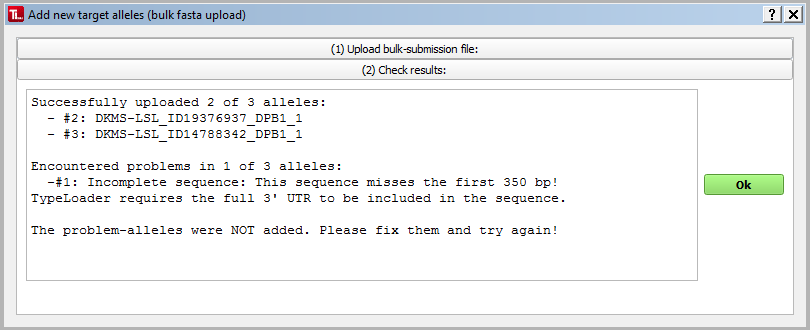
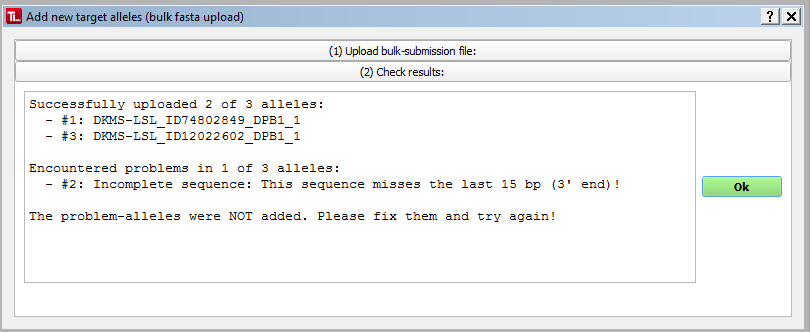
updated user manual for V 2.3.1

Changed region(s): [[0.0, 0.0, 1.0, 1.0]]

diff --git a/user_manual/first_start.md b/user_manual/first_start.md
@@ -1,32 +1,44 @@
 # ![Icon](images/TypeLoader_32.png) How to use TypeLoader: Getting started
-When you start TypeLoader for the first time after [=> Setup](setup.py), you will have to create a [=> User Account](users.md). 
 
-**We *strongly* recommend creating a [=> Test Account](users_test.md) first and using it to get familiar with all of TypeLoader's functions!**
+After installing TypeLoader ([=> Setup](setup.py)), start the program.
 
-(Unlike other user accounts, test accounts are connected to ENA's test server insted of their productive server. You don't want to screw around on their productive server! ;-))
+## Create a Test user account
+When you start TypeLoader for the first time after Setup, you will have to create a [=> User Account](users.md). 
+
+**Please create a [=> Test Account](users_test.md) first and use it to get familiar with all of TypeLoader's functions, before creating a productive account!**
+
+(Unlike other user accounts, test accounts are connected to ENA's test server insted of their productive server. You don't want to screw around on their productive server! They complain! ;-))
 
 Once you have created an account and logged into it, TypeLoader will ask whether you want to update the reference data. Since the installation does not bring any reference data along, **you must accept the reference update** for TypeLoader to work!
 Just click "Yes" and wait until another Popup appears to tell you that TypeLoader has (hopefully) successfully update its reference data (or give you an error message if a problem was encountered).
 
 After the reference data has been downloaded and processed successfully, you can get familiar with TypeLoader.
 
-If you have not registered with ENA, yet, you should do this now (follow the instructions on [ENA's 'Register Submission Account' page](https://ena-docs.readthedocs.io/en/latest/reg_01.html) and [=> configure your settings accordingly](settings.md) (tab "Company & Communications Settings"). Otherwise, TypeLoader will not be able to work.
+## Register with ENA
+If you have not registered with ENA, yet, you should do this now (follow the instructions on [ENA's 'Register Submission Account' page](https://ena-docs.readthedocs.io/en/latest/reg_01.html) and [=> configure your settings accordingly](settings.md) (tab "Company & Communications Settings"). **Otherwise, TypeLoader will not be able to work.**
 
+## Create a project
 Once you have entered communication data with ENA, you can start using TypeLoader by [=> creating a new project](new_project.md). All alleles in TypeLoader must be part of a project (since that is how ENA handles sequences), so you always need a project before you can upload any sequences.
 
+## Add alleles 
 After you have created a project, you can [=> add new alleles](new_allele.md) to it. (Once you are familiar with this method, you can also use the [=> bulk fasta upload](new_allele_bulk.md) to save even more time.)
 
+![important](images/icon_important.png) **If you wish, you can use the [=> Example files](example_files.md) provided by TypeLoader to play around in your test account.** 
+
+## Submit alleles to ENA
 When your test project contains a handful of alleles, you can submit them to ENA using the [=> ENA submission dialog](submission_ena.md). If there are no problems encountered, all your submitted alleles will now have the status ``ENA submitted``. If ENA has problems with any of your sequences, TypeLoader will show you a popup window explaining the problem, so you can fix them before trying again. 
 
-Once you are satisfied that ENA's test server accepts your sequences, create a productive [=> User Account](users.md) and log into that (and, if necessary, [=> configure its settings, too](settings.md). Create a project and add your sequences, just like you did in the test account.
+## Create a productive user account
+Once you are satisfied that ENA's test server accepts your sequences, restart TypeLoader, create a productive [=> User Account](users.md) and log into that (and, if necessary, [=> configure its settings, too](settings.md). Create a project and add your sequences, just like you did in the test account.
 
 When your project contains the alleles you want, submit them to ENA. (You do not have to submit all alleles of a project at once, and you can add more alleles to a project after you have submitted other alleles of the same project. To get started, it might be good idea to try out a handful of alleles, submit them, and await the ENA accession numbers, before uploading hundreds of alleles and only then realising a problem with the input format or methodology.)
 
-Once ENA has assigned accession numbers to your alleles, they will send you an email. After you have received that email, you can [=> create IPD submission files](submission_ipd.md). (This, you can do in your productive user account, as there is no direct server interaction with IPD.) For this, you will need to have a .csv file with the genotyping results of all other loci of your samples (you can download an example file from TypeLoader), and the attachment of the ENA email. **You also must make sure to [=> configure the Methods part of your settings](settings.md) to correctly depict your workflow!** 
+## Submit alleles to IPD
+Once ENA has assigned accession numbers to your alleles, they will send you an email. After you have received that email, you can [=> create IPD submission files](submission_ipd.md). (You can do this in your productive user account, as there is no direct server interaction with IPD.) For this, you will need to have a .csv file with the genotyping results of all other loci of your samples (you can [=> download an example file](example_files.md) from TypeLoader), and the attachment of the ENA email. **You also must make sure to [=> configure the Methods part of your settings](settings.md) to correctly depict your workflow!** 
 
-If you have not ever submitted novel alleles to IPD, open your first submission text file, go to [IPD's submission page](https://www.ebi.ac.uk/ipd/imgt/hla/subs/submit.html) and type the required information into their web form. You need to do this in order to get a submittor ID, which you can then [=> add to your TypeLoader settings](settings.md). 
+If you have not ever submitted novel alleles to IPD, open your first submission text file, go to [IPD's submission page](https://www.ebi.ac.uk/ipd/imgt/hla/subs/submit.html) and type the required information into their web form. (See [=> IPD Submission via IPD's Web Form](ipd_webform.md).) You need to do this in order to get a submittor ID, which you can then [=> add to your TypeLoader settings](settings.md). 
 
-Once you have a submittor ID, [=> contact IPD to let them know you want to submit TypeLoader files](ipd.md). They will probably ask you to type in a few more alleles by hand, so they can get a feeling for the kind of data you will be submitting, before giving you a way to upload future files directly.
+Once you have a submittor ID, [=> contact IPD to let them know you want to submit TypeLoader files](ipd.md). They will probably ask you to type in a few more alleles by hand, so they can get a feeling for the kind of data you will be submitting, before giving you a way to upload or send future files directly. (All control over the specifics of this process lies with the IPD, not with us, and depends on a variety of factors. Please talk to them, they don't bite. :-))
 
 Once IPD has accepted and assigned names to your alleles, they will notify you by email. 
 

diff --git a/user_manual/pretypings.md b/user_manual/pretypings.md
@@ -17,17 +17,24 @@ However, **IPD strongly encourages adding as much genotyping data about the samp
 ## The file
 The pretypings file must be a .csv file (comma separated text file). You can generate these from Excel or any text editor. **The delimiter used must be comma or semicolon.**
 
-The file should contain **one row per sample you want to submit alleles from**.
+The file should contain **one row per sample you want to submit alleles from**. 
 
 ### Columns:
-  * **Internal donor ID**: **this column is used identify the sample!** 
-  * **Cell line**: optional (can also be left blank but **NOT** deleted!)
-  * **Customer**: optional (can be left blank but **NOT** deleted!); the customer who sent this sample; this information is saved in TypeLoader
+  * **allele_name**: this column is used identify the allele (can also be left blank but **NOT** deleted) 
+  * **internal_ID**: **this column is used to identify the sample**
+  * **Client**: optional (can be left blank but **NOT** deleted!); the customer who sent this sample; this information is saved in TypeLoader
 
 **This is followed by several columns per locus:**
 
-* **HLA loci:** 2 columns per locus (one per allele), "A1", "A2" etc. (genotyping results should be at maximal resolution and contain no locus)
+* **HLA loci:** 2 columns per locus (one per allele), "HLA-A_1", "HLA-A_2" etc. (genotyping results should be at maximal resolution available and contain no locus)
 * **KIR loci:** 4 columns per locus (one per possible allele), "KIR2DL1-1", "KIR2DL1-2" etc. (genotyping results should be shortened to 3 field resolution or be given as POS/NEG for absence/presence. Cells that are not needed should be left blank).
+* **MIC:** 1 column for each gene, called "MICA" and "MICB", each containing **all** alleles for the gene, separated by a "+", each sarting with the MIC-letter (e.g., A001+A002, B001+B001)
+* **ABO:** 1 column, called "ABO", containing the ABO blood group as "A"/"B"/"AB"/"O"
+* **Rhesus:** 1 column, called "RHESUS" or "RHD", containing the Rhesus blood group as "+" or "-"
+* **CCR5:** 2 columns, "CCR5_1" and "CCR5_2", giving both alleles of the sample as "WT" (for wildtype) or "Del32" for the delta32 mutation
+* **CMV:** 1 column, called "CMV", containing the CMV status as "+" or "-"
+
+![Important](images/icon_important.png) **You can leave out any columns that you don't type, as long as the required loci (see above) are provided.**
 
 Example file:
 
@@ -37,12 +44,15 @@ Example file:
 
 ### Formatting and resolution
 
-* Use one field per allele. To accomodate for possible copy numbers, HLA-loci have 2 columns and KIR loci have 4. Leave fields, for which you have no genotyping results or which are not needed (not present KIR copies) blank.
+* Use one field per allele (except for MIC). To accomodate for possible copy numbers, HLA-loci have 2 columns and KIR loci have 4. Leave fields, for which you have no genotyping results or which are not needed (not present KIR copies) blank.
 * All genotyping results should be given at the highest resolution you can provide. 
 * For KIR genes, POS (presence) and NEG (absence) are valid typing results **except for the target locus**, where allele level resolution is mandatory. 
 * **Mark all novel alleles as new like this:**
  * HLA: 003:new
- * KIR: 003new 
+ * MIC: 003:new
+ * KIR: 003new (**no colon**, as the KIR nomenclature doesn't use them)
+
+![Important](images/icon_important.png) **If you submit an allele for a locus containing *more than one novel allele*, use one row per target allele, and differentiate them by the first column. In each row, only mark the allele corresponding to this target-allele as new, leave the other one at first field resolution.** (See [=> Multiple novel alleles](multiple_alleles.md))
 
 ### Requirement checks
 TypeLoader checks the given pretypings for the following requirements, and shows a popup asking you to clarify if necessary:

diff --git a/user_manual/_main.md b/user_manual/_main.md
@@ -1,19 +1,19 @@
 ![SplashScreen](images/TypeLoaderSplash.png)
 # Introduction
 
-You have discovered novel HLA or KIR alleles, but you have not yet submitted them to the European Nucleotide Archive ([ENA](https://www.ebi.ac.uk/ena/submit)) and to [IPD-IMGT/HLA](https://www.ebi.ac.uk/ipd/imgt/hla/) or [IPD-KIR](https://www.ebi.ac.uk/ipd/kir/)? You have extended HLA or KIR alleles that are only partially known to full length? Maybe you have already submitted alleles, but the tedious process of manually annotating and submitting them is wrecking your nerves and costing you hours you'd rather spend on doing something more productive?
+You have discovered novel HLA, KIR or MIC alleles, but you have not yet submitted them to the European Nucleotide Archive ([ENA](https://www.ebi.ac.uk/ena/submit)) and to [IPD-IMGT/HLA](https://www.ebi.ac.uk/ipd/imgt/hla/) or [IPD-KIR](https://www.ebi.ac.uk/ipd/kir/)? You have extended HLA, KIR or MIC alleles that are only partially known to full length? Maybe you have already submitted alleles, but the tedious process of manually annotating and submitting them each individually is wrecking your nerves and costing you hours you'd rather spend on doing something more productive?
 
 **Welcome to TypeLoader!**
 
-TypeLoader was developed at [DKMS Life Science Lab](https://dkms-lab.de/) to automate the annotation and submission of novel HLA and KIR alleles as far as possible. This reduces the hands-on time and error rate of creating the submission files by over 95%. Meanwhile, we have submitted [over 2000 HLA alleles](https://www.ncbi.nlm.nih.gov/pubmed/28547825) and a growing number of KIR alleles using this software. 
+TypeLoader was developed at [DKMS Life Science Lab](https://dkms-lab.de/) to automate the annotation and submission of novel HLA, KIR and MIC alleles as far as possible. This reduces the hands-on time and error rate of creating the submission files by over 95%. Meanwhile, we have submitted [over 2500 HLA alleles](https://www.ncbi.nlm.nih.gov/pubmed/28547825) and a growing number of KIR alleles using this software. 
 
-We are making TypeLoader available to others, to get all those full-length alleles submitted - for a more complete and a more consistent reference database for all of us in the HLA and KIR communities.
+We are making TypeLoader available to others, to get all those full-length alleles submitted - for a more complete and a more consistent reference database for all of us in the HLA, KIR and MIC communities.
 
 # Features
 ## Raw sequences
  * Accepts full-length sequences as plain fasta files or in the XML format generated by GenDx' NGSEngine [(=> Adding new alleles)](new_allele.md)
  * Automatically annotates all exon-intron boundaries by finding the closest offically known allele and using it as a reference. [(=> How TypeLoader works)](typeloader_core.md)
- * Support for HLA (class I and II) plus all KIR loci.
+ * Support for HLA (class I and II), all KIR loci, MICA and MICB.
 
 ## ENA submission
  * Generate ENA projects with a few clicks. [(=> Adding new projects)](new_project.md)

diff --git a/user_manual/new_allele_bulk.md b/user_manual/new_allele_bulk.md
@@ -1,13 +1,12 @@
 # ![Icon](images/TypeLoader_32.png) Bulk Fasta Upload 
-If you have a lot of **fasta files** you want to upload to TypeLoader, you can use the Bulk Fasta Upload. 
+If you have a lot of **fasta files** you want to upload to the same TypeLoader project, you can use the Bulk Fasta Upload. 
 
 ![Pic](images/icon_important.png) **This feature does not work for XML files!**
 
 This feature uses a .csv file specifying the files to upload and their sample data.
 
 ![Pic](images/icon_important.png) Please note that - unlike the [=> New Allele Dialog](new_allele.md) - this dialog will **not** show you the created ENA text files. To check these, you have to visit each allele's [=> Sample View](view_sample.md) and use the ``Edit a file`` button. 
-**Therefore, we recommend not using this feature until you have gotten familiar with adding individual alleles using the [=> New Allele Dialog](new_allele.md).**
-
+**Therefore, you cannot use this feature until you have gotten familiar with adding individual alleles using the [=> New Allele Dialog](new_allele.md).**
 
 ##  The bulk upload csv 
 To give TypeLoader the files you want to bulk-upload, you need a .csv file containing the files to upload as well as their sample information. It must be comma-separated and contain the following columns (with one row per target allele to upload):
@@ -18,6 +17,7 @@ To give TypeLoader the files you want to bulk-upload, you need a .csv file conta
   * **sample\_id_int**: the internal sample ID for the sample 
   * **sample\_id_ext**: the external sample ID for the sample
   * **customer**: (optional) the customer who issued the sample
+  * **incomplete_ok**: (optional) if the sequence is known and accepted to be incomplete, write "ok" here (see [=> Sequence Requirements](new_allele_requirements.md))
 
 ![Pic](images/bulk_upload_csv.png)
 
@@ -52,4 +52,8 @@ First, all alleles that were successfully uploaded are listed. These are now con
 
 Then, all alleles that produced any kind of error or problem are listed, together with the error message. These were not added to TypeLoader. You will need to fix these before you can upload them.
 
+(In this example case, the sequences #2 and #3 had incomplete UTR sequences, but since the `incomplete_ok` column of the .csv file was only specified as `ok` in sequence #3 but not in #2, TypeLoader rejected sequence #2. This ensures that you only upload incomplete sequences that you are aware of and have thought through.)
+
 Clicking ``Ok`` will close the dialog.
+
+![Pic](images/icon_important.png) **Before you re-attempt uploading problematic alleles, please remove the lines of alleles that were already successfully uploaded from the .csv file!** Otherwise, you will upload them a second time, and TypeLoader will treat this as a second novel allele for the same locus.

diff --git a/user_manual/new_allele_requirements.md b/user_manual/new_allele_requirements.md
@@ -1,0 +1,33 @@
+# ![Icon](images/TypeLoader_32.png) Sequence Requirements
+
+Input sequences for TypeLoader need to fulfill the following requirements:
+
+## Loci: HLA, KIR or MIC
+Each file must contain **the sequence of one allele** of one of the following genes:
+
+ * HLA: any class I or class II gene
+ * KIR: any of the (human) KIR genes or pseudogenes recognized by IPD-KIR
+ * MIC: MICA or MICB
+ 
+## Full-length genomic sequences
+![Pic](images/icon_important.png) **TypeLoader DOES NOT TRIM the sequences for you, you have to do this BEFORE uploading!**
+
+ * All sequences **must** be **genomic** sequences (i.e., no cDNA sequences or ARD-only sequences)
+ * All sequences **must** cover **all exons AND all introns** (i.e., no partial sequences)
+ * All sequences **must** cover **at least 1 bp of each UTR**.
+ * **Ideally**, sequences should start at the **first base of the official 5' UTR** and end at the **last base of the official 3' UTR**.
+
+### Incomplete UTRs
+IPD does not accept partial genomic sequences. However, they consider a sequence full-length if it contains at least the last base of the 5' UTR, the first base of the 3' UTR, and all exons and introns in between. Therefore, this is TypeLoader's minimum requirement for any input sequence.
+
+TypeLoader normally expects sequences to cover the whole gene including both UTRs completely. If it gets a sequence with only partial UTRs, it throws a warning and asks you whether you are sure you want to proceed:
+![Pic](images/new_allele_incomplete.png)
+
+By clicking `Yes`, you confirm that you are aware your sequence is incomplete, and of thepossible consequences of submitting such a sequence, and that you want to upload and eventually submit it, anyway.
+
+![Pic](images/icon_important.png) **Please consider carefully if you really can't provide a full-length sequence covering the whole gene, including both UTRs!** Incomplete sequences in the IPD databases often cause problems for NGS-based genotyping and other analyses, so it is *highly* preferable to submit only complete sequences to IPD.
+
+(If either of the UTRs, or more than that, is completely missing, TypeLoader will reject the sequence.)
+
+## Example sequences
+TypeLoader provides [=> example sequences](example_files.md) for all gene systems, so you can have a look at the format TypeLoader expects.

diff --git a/user_manual/example_files.md b/user_manual/example_files.md
@@ -1,0 +1,37 @@
+# ![Icon](images/TypeLoader_32.png) Example files
+
+TypeLoader provides a set of example files. With these, you can
+
+ * Test that TypeLoader works in your environment
+ * Become familiar with TypeLoader
+ * See the file format of the input files and the generated output files
+
+![Pic](images/icon_important.png) **Please ONLY use these example files in your [=> TEST account](users_test.md)!** Do **NOT submit** IPD-files generated from them **to IPD!**
+
+## Provided files
+
+### Example sequences
+TypeLoader provides fasta files for at least one *existing and officially named* allele sequence per gene system:
+
+ * HLA-A*01:01:01:01: example for an HLA class I sequence
+ * KIR2DL1*0020101: example for a KIR gene containing a pseudoexon
+ * KIR2DL4*0010201: example for a KIR gene that has a deleted exon when compared to other KIR genes
+ * MICA*00201: example for a MICA sequence
+
+Once you have downloaded them to a location of your choice, you can upload them to TypeLoader using the [=> New Allele Dialog](new_allele.md).
+
+![Pic](images/icon_important.png) **Please note that the header information is completely optional** (except for any name for the sequence, to satisfy the FASTA file format). Your own sequences *can* follow this pattern, but they don't have to. See [=> Input files](input_files.md) for more details.
+
+### IPD submission files
+The creation of files for [=> IPD Submission](submission_ipd.md) requires additional information beside the sequences: an ENA reply file, which contains the IDs assigned by ENA after [=> ENA Submission](submission_ena.md), plus a pretypings file containing the genotyping results for all loci of the samples to be submitted. 
+
+The files provided here work for the sequence files provided, and can be used to create IPD submission files from them. 
+
+## How to get them
+Use the menu (`Options` => `Download example files`) or press CTRL+D:
+
+![important](images/example_files_dialog.png)
+
+Then, simply click the `Download!` button for any file you would like to download.
+
+The files for IPD submission can be used in the [=> IPD Submission dialog](submission_ipd.md) to create IPD submission files for all provided example sequences.

diff --git a/user_manual/input_files.md b/user_manual/input_files.md
@@ -4,6 +4,9 @@ TypeLoader accepts sequences for [=> New Alleles](new_allele.md) in either of tw
  * Fasta format
  * XML format produced by NGSEngine (GenDX) 
 
+## Sequence Requirements
+See [=> Sequence Requirements](new_allele_requirements.md) to check the minimum requirements for TypeLoader's input sequences.
+
 ## Fasta files
 Fasta files should contain exactly one sequence. (If they contain more than that, only the first sequence is used. To add multiple fasta sequences at once, use the [=> Bulk Fasta Upload](new_allele_bulk.md).)
 
@@ -26,6 +29,8 @@ The following keys are  currently recognized:
  * **version** (version of the software used for full-length genotyping)
  * **date** (date of secondary genotyping)
 
-
 ## XML files
 The XML file exported from NSGEngine contains both alleles of one locus of one sample. If you upload such a file to TypeLoader, the dialog will ask you to clarify which of the alleles you want to add. (If you want to add both alleles, run the [=> New Allele Dialog](new_allele.md) twice with the same file, and choose the other allele during the second run.)
+
+## Example files
+TypeLoader provides [=> example sequences in fasta format](example_files.md) for all gene systems, so you can have a look at the format TypeLoader expects.

diff --git a/user_manual/overview_alleles.md b/user_manual/overview_alleles.md
@@ -12,3 +12,4 @@ Rightclicking any row will give you the following options:
   * **Select as current allele**: chooses this target allele as current allele. The selection in the [=> Navigation Area](navigation.md) will jump to this allele and expand its project, if necessary. (The effect is the same as clicking the allele in the [=> Navigation Area](navigation.md).)
   * **Select project as current project**: chooses this target allele's project as current project. The selection in the [=> Navigation Area](navigation.md) will jump to this project and expand it, and it will be pre-selected as default when opening a dialog. (The effect is the same as clicking the project in the [=> Navigation Area](navigation.md).)
 
+![Pic](images/icon_important.png) The larger your database of existing alleles, the bigger this table becomes. Currently, this makes it a bit slower to display, once you have a few hundred alleles in your account. (This delay happens only when you open this view, and only the first time during a given TypeLoader session.) We are aware of this, and looking to fix it eventually.

diff --git a/user_manual/future.md b/user_manual/future.md
@@ -3,12 +3,13 @@
 Here is an incomplete list of things we plan to implement in TypeLoader's future:
 
 ## Planned (will be implemented)
- * Generate report/statistics over all data of one user
- * ability to automatically read IPD reply files
+ * Adjusting to ENA's new API (behind the scenes, but necessary to keep TypeLoader working past summer 2019) 
+ * Internal code restructure for better performance and maintainability
+ * Generate statistics over all data of one user and export them
+ * Ability to automatically read IPD reply files
  * Internal allele names: recognize allele sequence if TypeLoader has already seen it before in another sample 
- * Ability to remove existing user
 
-## Ideas (may be implemented, but not very soon)
+## Ideas (may be implemented, but not soon)
  * command line version (mainly for Linux)
  * option to start novel alleles at an earlier point, to use the "Lab process" part
  * more sophisticated rollback/change log mechanism

diff --git a/user_manual/navigation.md b/user_manual/navigation.md
@@ -32,3 +32,6 @@ To view and/or edit details about a **target allele** or its sample, doubleclick
 If the Sample View is already open, you can switch between target alleles by just clicking them in the Navigation Area, and the Sample View will be refiltered to the newly selected target allele.
 
 (The additional option ``Delete Sample`` is meant for administrators only and requires a password to avoid data corruption.)
+
+## Refreshing
+Normally, the Navigation Area should update with any change of the diplayed data (status changes, added or deleted alleles etc.). If you think something is not displayed the way it should be, click the `Refresh Navigation` button underneath the Navigation Area to refresh it.

diff --git a/user_manual/new_allele.md b/user_manual/new_allele.md
@@ -1,6 +1,8 @@
 # ![Icon](images/TypeLoader_32.png) Adding a new allele 
 TypeLoader organizes its sequences in projects, which are a set of sequences with a common trait, e.g., a sample pool. This is neccessary, both to keep organized and also because ENA only accepts projects, not single sequences. 
 
+**For the minimal sequence requirements, see [=> here](new_allele_requirements.md).**
+
 To add a new target allele (a.k.a. sequence) to TypeLoader, choose the option "New Sequence" in the menu or task bar. This will open the New Allele dialog:
 
 ![Pic](images/new_allele0.png)
